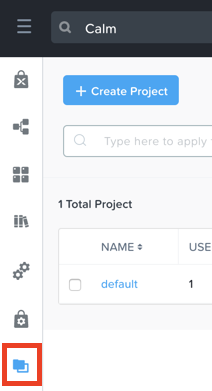
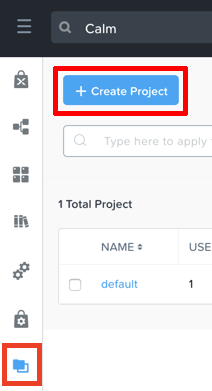
Changes we discussed

Changed region(s): [[0.2264, 0.1535, 0.9057, 0.3069]]

diff --git a/dayinlife/dayinlife.rst b/dayinlife/dayinlife.rst
@@ -6,6 +6,10 @@ A Day in the Life
 
 In this lab you will follow a day in the life of Carol O'Kay, a 10 year veteran of administrating virtual environments on 3-tier architecture, who has recently deployed her first Nutanix cluster. The Nutanix cluster is being used for a mix of production IT workloads, and supporting the engineering efforts for her company's primary application, an inventory management solution called Fiesta, used to support the company's retail storefronts.
 
+.. note::
+
+   If there are multiple people utilizing the same Nutanix cluster to complete this lab, certain steps may have already been completed. If this occurs, just skip that particular step, and continue on with the lab after you've verified the step(s) was completed correctly.
+
 Configuring Storage
 +++++++++++++++++++
 
@@ -44,13 +48,13 @@ In this brief exercise, you will experience how IT generalists can provision and
 
    **Compression**
 
-      Nutanix provides both inline and post-process data compression. Irrespective of inline or post-process compression, write data coming into OpLog that is >4k and shows good compression, will be written compressed in OpLog. For inline compression (Delay=0), sequential streams of data or large size I/Os (>64K) will be compressed when writing to the Extent Store. For post-process (Delay > 0), data is compressed after it is drained from OpLog to the Extent Store, after compression delay is met.
+      Nutanix provides two choices - inline or post-process data compression. Irrespective of inline or post-process compression, write data coming into OpLog that is >4k and shows good compression, will be written compressed in OpLog. For inline compression (Delay=0), sequential streams of data or large size I/Os (>64K) will be compressed when writing to the Extent Store. For post-process (Delay > 0), data is compressed after it is drained from OpLog to the Extent Store, after compression delay is met.
 
       Compression provides on-disk space savings for applications such as databases, and results in a lower number of writes being written to storage. Post-process compression is turned ON by default on all containers. Starting 5.18, inline compression will be turned ON by default on all containers. We recommend turning ON inline compression for almost all use cases. Workloads not ideal for compression are encrypted datasets or already compressed datasets.
 
    **Erasure Coding**
 
-      To provide a balance between availability and the amount of storage required, DSF provides the ability to encode data using erasure codes (EC). Like RAID (levels 4, 5, 6, etc.) where parity is calculated, EC encodes a strip of data blocks across different nodes and calculates parity. In the event of a host and/or disk failure, the parity data is used to calculate any missing data blocks (decoding).  In the case of DSF, the data block must be on a different node and belong to a different vDisk. EC is a post-process operation and is done on write cold data (Data that hasn’t been overwritten in more than 7 days). The number of data and parity blocks in a strip is chosen by the system based on number of nodes and configured failures to tolerate.
+      To provide a balance between availability and the amount of storage required, Distributed Storage Fabric (DSF) provides the ability to encode data using erasure codes (EC). Like RAID (levels 4, 5, 6, etc.) where parity is calculated, EC encodes a strip of data blocks across different nodes and calculates parity. In the event of a host and/or disk failure, the parity data is used to calculate any missing data blocks (decoding).  In the case of DSF, the data block must be on a different node and belong to a different vDisk. EC is a post-process operation and is done on write cold data (Data that hasn’t been overwritten in more than 7 days). The number of data and parity blocks in a strip is chosen by the system based on number of nodes and configured failures to tolerate.
 
       Turn on EC-X for non-mission-critical workloads and workloads that have a significant amount of write cold data, since erasure coding works on write cold data and provides more usable storage. For more information refer to `application specific best practice guides <https://portal.nutanix.com/page/documents/solutions/list/>`_.
 
@@ -76,7 +80,7 @@ In this brief exercise, you will experience how IT generalists can provision and
 
    In vSphere or Hyper-V environments, creating the Storage Container will also automate the process of mounting the storage to the hypervisor.
 
-#. Select an existing Storage Container, such as **buckets-ctr-data...**, and review the individual savings from different data reduction/avoidance features, as well as the **Effective Capacity**, which is a projection of available storage based on the overall efficiency. These values are found in the **Storage Container Details** table.
+#. Select an existing Storage Container, and review the individual savings from different data reduction/avoidance features, as well as the **Effective Capacity**, which is a projection of available storage based on the overall efficiency. These values are found in the **Storage Container Details** table.
 
    Unfortunately it is not possible to easily test data resiliency capabilities of the cluster in a shared environment, but the short video below will walk you through the experience from Prism when a node in the cluster is unexpectedly lost.
 
@@ -214,7 +218,7 @@ In this exercise you'll create a custom category for Carol to help align access 
 
 #. Click **Save**.
 
-#. Select the existing **Environment** category and note the available values. **Environment** is a **SYSTEM** category, and while you can add additional values, you cannot modify or delete the Category or any of its out of the box values.
+#. Click on the existing **Environment** category and note the available values. **Environment** is a **SYSTEM** category, and while you can add additional values, you cannot modify or delete the Category or any of its out of the box values.
 
    .. figure:: images/16.png
 
@@ -224,7 +228,11 @@ In this exercise you'll create a custom category for Carol to help align access 
 
    .. figure:: images/17.png
 
-#. In the search bar, begin typing **Environment** and select the **Production** value.
+   .. note::
+
+      Depending on the number of participants, some of the VMs you need to select could be on another page. You may either search for the VM in question, click to view additional pages and select the VM, or choose to show additional rows. Any of these techniques can be accomplished at the upper right hand portion of the interface.
+
+#. In the search bar, begin typing **Environment** and select the **Production** value, then click on the plus sign.
 
    .. figure:: images/18.png
 
@@ -234,7 +242,7 @@ In this exercise you'll create a custom category for Carol to help align access 
 
 #. Click **Save**.
 
-#. Select the *Initials*\ **-WinToolsVM** provisioned by Carol in the previous exercise, and click **Actions > Manage Categories**. Assign the *Initials*\ **-Team: Fiesta** category and **Save**.
+#. Select the *Initials*\ **-WinToolsVM** provisioned by Carol in the previous exercise, and click **Actions > Manage Categories**. Assign the *Initials*\ **-Team: Fiesta** category, click the plus sign and then **Save**.
 
 Exploring Roles
 ===============
@@ -247,15 +255,11 @@ Carol needs to support two types of users working on the Fiesta team, developers
 
    The built-in Developer role allows users to create and modify VMs, create, provision, and manage Calm Blueprints, and more.
 
-#. Select the built-in **Developer** role and optionally review the approved actions for the role. Click **Manage Assignment**.
+#. Click on the built-in **Developer** role and optionally review the approved actions for the role. Click **Manage Assignment**.
 
    .. figure:: images/19.png
 
 #. Under **Users and Groups**, specify the **SSP Developers** User Group which should be automatically discovered from the NTNXLAB.local domain.
-
-   .. note::
-
-      This may already have been completed by another user, but you'll need to ensure the proper entities are also added below.
 
 #. Under **Entities**, use the drop down menu to specify the following resources:
 
@@ -265,11 +269,11 @@ Carol needs to support two types of users working on the Fiesta team, developers
 
    .. figure:: images/20.png
 
-#. Click **Save**.
+#. Click **Save** and then close this screen by clicking on the X at the top right.
 
    The default Operator roll includes the ability to delete VMs and applications deployed from Blueprints, which isn't desired in our environment. Rather than building a new role from scratch, we can clone to existing role and modify to suit our needs. The desired operator role should be able to view VM metrics, perform power operations, and update VM configurations such as vCPU or memory to address application performance issues.
 
-#. Select the built-in **Operator** role and click **Duplicate**.
+#. Click the built-in **Operator** role and click **Duplicate**.
 
 #. Fill out the following fields and click **Save** to create your custom role:
 
@@ -281,7 +285,7 @@ Carol needs to support two types of users working on the Fiesta team, developers
 
    .. figure:: images/21.png
 
-#. Refresh **Prism** and select your **SmoothOperator** role. Click **Manage Assignment**.
+#. Refresh **Prism** and click on your **SmoothOperator** role. Click **Manage Assignment**.
 
 #. Create the following assignment:
 
@@ -290,7 +294,7 @@ Carol needs to support two types of users working on the Fiesta team, developers
 
    Operator01 is a user who has access to all VMs tagged with any of the Environment categories, but lacks generic access to specific clusters.
 
-#. Click **New User** to add an additional assignment to the same role:
+   Click **New Users** to add an additional assignment to the same role:
 
    - **Users and Groups** - operator02
    - **Entity Categories** - EnvironmentDev, *Initials*\ -Team:Fiesta
@@ -299,7 +303,7 @@ Carol needs to support two types of users working on the Fiesta team, developers
 
    .. figure:: images/22.png
 
-#. Click **Save**.
+   Click **Save**.
 
 #. For infrastructure administrators such as Carol, you can map AD users to the **Prism Admin** or **Super Admin** roles through selecting :fa:`bars` **> Prism Central Settings > Role Mapping** and adding a new **Cluster Admin** or **User Admin** mapping to AD accounts.
 
@@ -341,7 +345,7 @@ In order for non-infrastructure administrators to access Calm, allowing them to 
    - Under **Users, Groups, and Roles**, select **+ User**
 
       - **Name** - SSP Developers
-      - **Role** - Developers
+      - **Role** - Developer
       - **Action** - Save
 
    - Select **+ User**
@@ -438,7 +442,7 @@ While developer users will have the ability to create and publish their own Blue
 Developer Workflow
 ++++++++++++++++++
 
-Meet Dan. Dan is a member of the Fiesta Engineering team. He's behind on testing a new feature because previous requests to IT for virtual infrastructure that Dan needs to work have each taken several days.
+Meet Dan. Dan is a member of the Fiesta Engineering team. He's behind on testing a new feature, as his request to IT to deploy the virtual infrastructure he requires to perform the testing are several days overdue.
 
 Dan has resorted to deploying VMs outside of the corporate network on his favorite public cloud service, with no security oversight, and putting company IP at risk.
 
@@ -457,7 +461,7 @@ Carol to the rescue - she encourages Dan to follow the exercise below to allow h
 
 #. On the **VMs** page, you should already see your *Initials*\ **-WinToolsVM** as available to be managed by Dan.
 
-#. Select the VM and note Dan can get basic metrics associated with his VM, as well as control the VM configuration, power operations, and even delete the VM.
+#. Click on the VM and note Dan can get basic metrics associated with his VM, as well as control the VM configuration, power operations, and even delete the VM.
 
    .. figure:: images/29.png
 
@@ -523,7 +527,7 @@ Carol to the rescue - she encourages Dan to follow the exercise below to allow h
 
    .. figure:: images/37.png
 
-#. Select the **Audit** tab to monitor the deployment of the Fiesta development environment. Complete provisioning of the app should take approximately
+#. Click the **Audit** tab to monitor the deployment of the Fiesta development environment.
 
    .. figure:: images/38.png
 
@@ -580,9 +584,9 @@ Now that Carol has freed up time to focus on replacing additional legacy infrast
    - **User Name** - adminuser01@ntnxlab.local
    - **Password** - nutanix/4u
 
-#. Open :fa:`bars` **> Infrastructure > VMs**. Prism Central's **Entity Browser** provides a robust UI for sorting, searching, and viewing entities such as VMs, Images, Clusters, Hosts, Alerts, and more!
+#. Open :fa:`bars` **> Virtual Infrastructure > VMs**. Prism Central's **Entity Browser** provides a robust UI for sorting, searching, and viewing entities such as VMs, Images, Clusters, Hosts, Alerts, and more!
 
-#. Select **Filters** and explore the available options. Specify the following example filters:
+#. Select **Filters** and explore the available options. Specify the following example filters, and verify the corresponding box is checked:
 
    - **Name** - Contains *Initials*
    - **Categories** - *Initials*\ -Team: Fiesta
